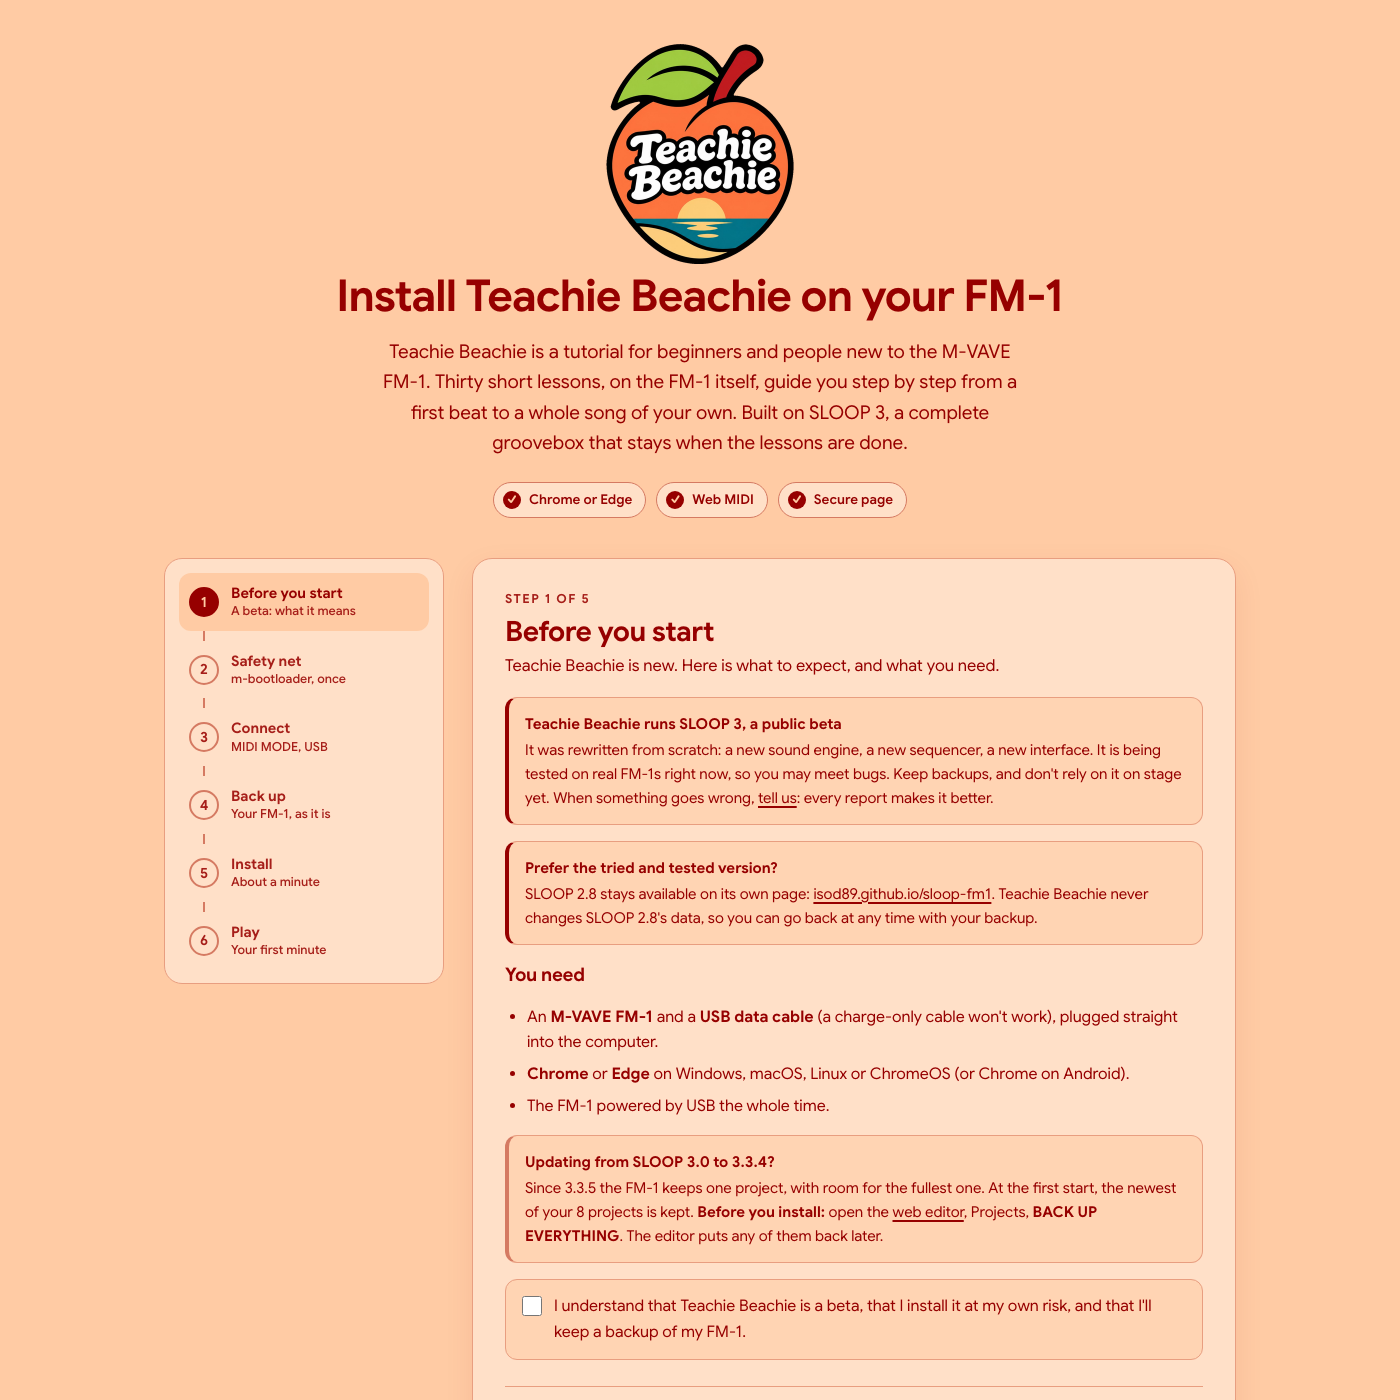
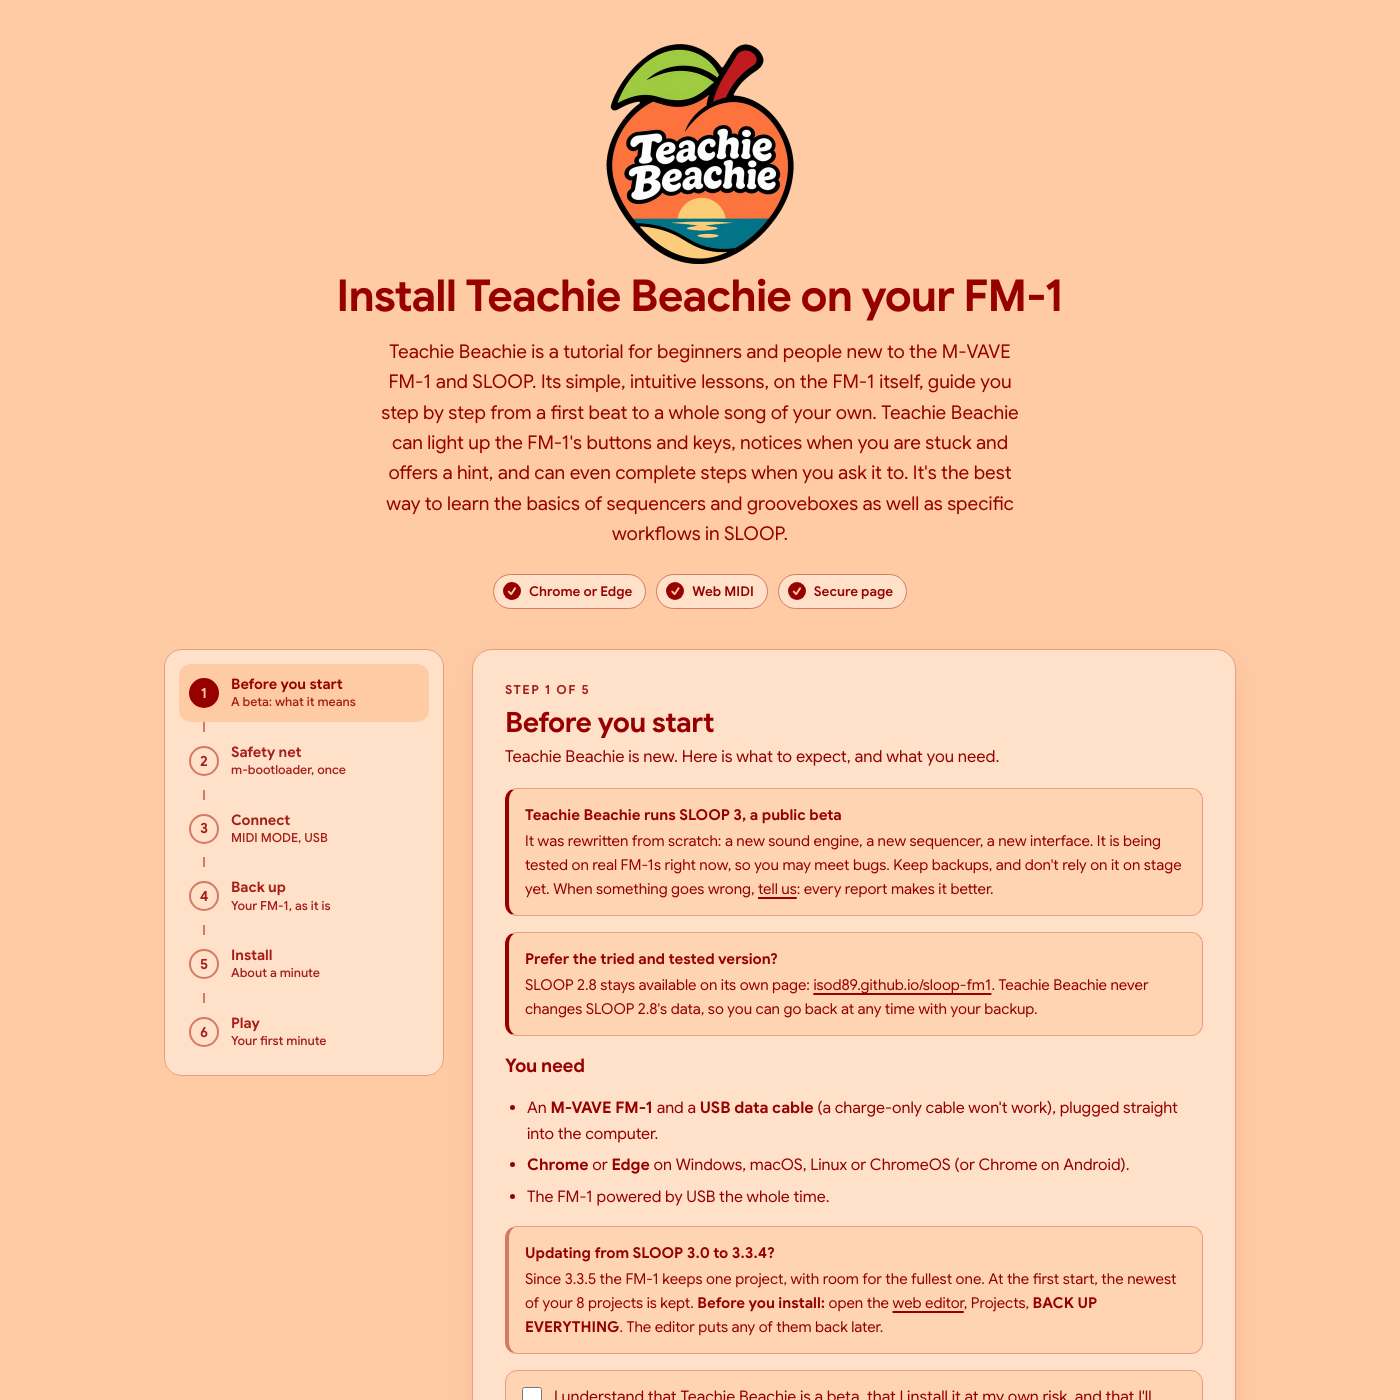
Teachie Beachie: the installer page's own introduction, in English only
- The introduction says what Teachie Beachie is for (beginners, people new to the FM-1 and SLOOP) and
  what it does: it lights up the FM-1's buttons and keys, notices when you are stuck and offers a hint,
  and can complete steps when asked.
- English only: SLOOP's French words are taken out, and the page no longer follows the browser's
  language. tests/installer_e2e.js goes through the English page only.
- tutorial/install-page.png: a new picture of the page.

Changed region(s): [[0.0921, 0.2457, 0.8907, 1.0]]

diff --git a/tests/installer_e2e.js b/tests/installer_e2e.js
@@ -2,7 +2,8 @@
  * SLOOP 3's installer page in Chromium, as a user goes through it, against a fake m-bootloader in MIDI MODE (Web MIDI
  * replaced in the page): the beta's agreement, m-bootloader there, Connect while the FM-1 is not plugged yet (it is
  * found by itself when it appears), the backup (1 MB read, a file downloaded), the install (the package read twice),
- * the end. In English, then in French. Pictures of each step: OUT/installer-*.png.
+ * the end. In English (Teachie Beachie's page has no French; SLOOP's ran it in French too). Pictures of each step:
+ * OUT/installer-*.png.
  *   node tests/installer_e2e.js PAGE.html OUT */
 const { chromium } = require('playwright');
 const fs = require('fs'), path = require('path');
@@ -59,7 +60,7 @@ const FAKE = () => {
 
 (async () => {
   const b = await chromium.launch();
-  for (const lang of ['en', 'fr']) {
+  for (const lang of ['en']) {
     const ctx = await b.newContext({ viewport: { width: 1440, height: 900 }, locale: lang === 'fr' ? 'fr-FR' : 'en-US', acceptDownloads: true });
     const pg = await ctx.newPage();
     const errs = []; pg.on('pageerror', e => errs.push(e.message));
@@ -109,6 +110,6 @@ const FAKE = () => {
     await ctx.close();
   }
   await b.close();
-  console.log(fails ? fails + ' FAILED' : 'installer_e2e: OK (en, fr: agreement, m-bootloader, connect when plugged, backup, install, done)');
+  console.log(fails ? fails + ' FAILED' : 'installer_e2e: OK (en: agreement, m-bootloader, connect when plugged, backup, install, done)');
   process.exit(fails ? 1 : 0);
 })();

diff --git a/tools/teachie_page.py b/tools/teachie_page.py
@@ -3,8 +3,8 @@
 # Teachie Beachie: SLOOP's installer page (tools/mkpage.py's output) under TEACHIE BEACHIE's name, in place. Run by fw/build.sh
 # after mkpage.py, so web/installer.tmpl.html stays exactly SLOOP's and a merge of a new SLOOP never clashes there.
 #   teachie_page.py PAGE.html
-# What it does: Teachie Beachie where the page names the firmware it installs; SLOOP 3 credited in the title, the beta note
-# and the footer (English and French); bug reports to Teachie Beachie's; the version shown as Teachie Beachie's, then
+# What it does: the page in English only (SLOOP's French left out); Teachie Beachie where the page names the firmware it
+# installs; SLOOP 3 credited in the title, the beta note and the footer; bug reports to Teachie Beachie's; the version shown as Teachie Beachie's, then
 # SLOOP's; Teachie Beachie's logo above the title and as the tab's icon (the two pictures are made by
 # tools/mkpagelogo.py); and its own look: the FM-1 cards' two colors (peach paper, dark red ink, app/vis.h) and the
 # lessons' font (assets/fonts/page-font.woff, tools/mkpagefont.py), with no bar or menu at the top and a short
@@ -29,6 +29,12 @@ if held: t = t.replace(pkg, "\0FWPKG\0")
 t, renamed = re.subn(r"SLOOP 3(?!\.\d|\d)", "TEACHIE BEACHIE", t)
 if held: t = t.replace("\0FWPKG\0", pkg)
 
+# 1b. English only: SLOOP's page is in English and French, chosen by the browser's language. Teachie Beachie's is in
+#     English: the French words are taken out (the script falls back to the English for every one) and the page no
+#     longer looks at the browser's language
+t, nfr = re.subn(r"\nfr: \{\n.*?\n\}\};", "\nfr: {}};", t, count=1, flags=re.S)
+t, nlang = re.subn(r"setLang\(saved \|\| \(/\^fr/i\.test\(navigator\.language \|\| ''\) \? 'fr' : 'en'\)\);", "setLang('en');", t)
+
 # 2. the sentences that need SLOOP 3 named, or TEACHIE BEACHIE's own words
 RULES = [
     ('content="Install TEACHIE BEACHIE, the free groovebox firmware for the M-VAVE FM-1,',
@@ -37,55 +43,35 @@ RULES = [
     # that does not break the line, keeps M-VAVE and FM-1 whole on a phone)
     ('TEACHIE BEACHIE turns the M-VAVE FM-1 into a complete groovebox: drums, bass, chords, melodies and effects, with a '
      'sequencer that loops it all. This page installs it for you, step by step, right from your browser.',
-     'Teachie Beachie is a tutorial for beginners and people new to the M&#8209;VAVE FM&#8209;1. Thirty short lessons, on the '
-     'FM-1 itself, guide you step by step from a first beat to a whole song of your own. Built on SLOOP 3, a complete '
-     'groovebox that stays when the lessons are done.'),
-    ("TEACHIE BEACHIE fait du M-VAVE FM-1 une groovebox complète : batterie, basse, accords, mélodies et effets, avec un "
-     "séquenceur qui boucle le tout. Cette page l\\'installe pour toi, étape par étape, depuis ton navigateur.",
-     "Teachie Beachie est un tutoriel pour les débutants et pour qui découvre le M&#8209;VAVE FM&#8209;1. Trente courtes leçons, "
-     "sur le FM-1 lui-même, te guident pas à pas d\\'un premier rythme à un morceau entier bien à toi. Construit sur "
-     "SLOOP 3, une groovebox complète qui reste une fois les leçons finies."),
+     'Teachie Beachie is a tutorial for beginners and people new to the M&#8209;VAVE FM&#8209;1 and SLOOP. Its simple, '
+     'intuitive lessons, on the FM-1 itself, guide you step by step from a first beat to a whole song of your own. '
+     'Teachie Beachie can light up the FM-1\'s buttons and keys, notices when you are stuck and offers a hint, and can '
+     'even complete steps when you ask it to. It\'s the best way to learn the basics of sequencers and grooveboxes as '
+     'well as specific workflows in SLOOP.'),
     ('The FM-1 running TEACHIE BEACHIE (3D render)', 'The M-VAVE FM-1, with SLOOP 3 on its screen (3D render)'),
-    ('Le FM-1 avec TEACHIE BEACHIE (rendu 3D)', "Le M-VAVE FM-1, avec SLOOP 3 à l\\'écran (rendu 3D)"),
     ('The M-VAVE FM-1 running TEACHIE BEACHIE', 'The M-VAVE FM-1'),
-    ('Le M-VAVE FM-1 avec TEACHIE BEACHIE', 'Le M-VAVE FM-1'),
     # after the install: the peach and the start card, not SLOOP's sailboat; and where the lessons come from
     ('The FM-1 restarts on TEACHIE BEACHIE and the sailboat logo draws itself in. Turn <b>MASTER</b> up gently, and have fun.',
      'The FM-1 restarts on Teachie Beachie: the peach logo, then a card that asks "Ready for a lesson?" <kbd>OCT+</kbd> starts '
      'a lesson, <kbd>OCT-</kbd> goes straight to SLOOP 3. Turn <b>MASTER</b> up gently, and have fun. The thirty lessons are a '
      'small pack of their own, which this page does not install yet: <a href="' + HOME + '">the project\'s page</a> says how '
      'to put it on the FM-1.'),
-    ("Le FM-1 redémarre sur TEACHIE BEACHIE et le voilier se dessine. Monte <b>MASTER</b> doucement, et amuse-toi bien.",
-     "Le FM-1 redémarre sur Teachie Beachie : la pêche, puis une carte qui demande « Ready for a lesson? ». <kbd>OCT+</kbd> lance une "
-     "leçon, <kbd>OCT-</kbd> va droit à SLOOP 3. Monte <b>MASTER</b> doucement, et amuse-toi bien. Les trente leçons sont un "
-     "petit paquet à part, que cette page n\\'installe pas encore : <a href=\"" + HOME + "\">la page du projet</a> explique "
-     "comment le mettre sur le FM-1."),
     # the first start: TEACHIE BEACHIE leaves out SLOOP 3's opening of a SLOOP 2.8 project (TP_SLOOP28_PROJECT in fw/main.c)
     ("At its first start, TEACHIE BEACHIE opens what SLOOP 2.8 left: your sections become patterns, and your presets, "
      "favourites, samples, SYN kits, FM6 bank and settings come along. SLOOP 2.8's data is only read, never written.",
      "TEACHIE BEACHIE does not open the project SLOOP 2.8 left (SLOOP 3 does; TEACHIE BEACHIE leaves that out to make room "
      "for its lessons). Your presets, favorites, samples, SYN kits, FM6 bank and settings come along. SLOOP 2.8's data is "
      "only read, never written."),
-    ("Au premier démarrage, TEACHIE BEACHIE ouvre ce que SLOOP 2.8 a laissé : tes sections deviennent des patterns, et tes "
-     "presets, favoris, samples, kits SYN, banque FM6 et réglages suivent. Les données de SLOOP 2.8 sont seulement lues, "
-     "jamais écrites.",
-     "TEACHIE BEACHIE n\\'ouvre pas le projet que SLOOP 2.8 a laissé (SLOOP 3 le fait ; TEACHIE BEACHIE s\\'en passe pour "
-     "faire de la place à ses leçons). Tes presets, favoris, samples, kits SYN, banque FM6 et réglages suivent. Les données "
-     "de SLOOP 2.8 sont seulement lues, jamais écrites."),
     ('data-t="betaT">TEACHIE BEACHIE is a public beta', 'data-t="betaT">TEACHIE BEACHIE runs SLOOP 3, a public beta'),
-    ("betaT: 'TEACHIE BEACHIE est une bêta publique'", "betaT: 'TEACHIE BEACHIE fait tourner SLOOP 3, une bêta publique'"),
     ('<p data-t="foot1"><b>TEACHIE BEACHIE</b> is free software (GPL-3.0) by the SLOOP project: '
      '<a href="https://github.com/isod89/sloop3-fm1">github.com/isod89/sloop3-fm1</a>.',
      '<p data-t="foot1"><b>Teachie Beachie</b> is free software (GPL-3.0), built on <b>SLOOP 3</b> by the '
      'SLOOP project (<a href="https://github.com/isod89/sloop3-fm1">github.com/isod89/sloop3-fm1</a>). '
      'The SLOOP project does not make or support TEACHIE BEACHIE.'),
-    ("foot1: '<b>TEACHIE BEACHIE</b> est un logiciel libre (GPL-3.0) du projet SLOOP : "
-     "<a href=\"https://github.com/isod89/sloop3-fm1\">github.com/isod89/sloop3-fm1</a>.",
-     "foot1: '<b>Teachie Beachie</b> est un logiciel libre (GPL-3.0), construit sur <b>SLOOP 3</b> du "
-     "projet SLOOP (<a href=\"https://github.com/isod89/sloop3-fm1\">github.com/isod89/sloop3-fm1</a>). "
-     "Le projet SLOOP ne fait ni ne prend en charge TEACHIE BEACHIE."),
 ]
 missed = []
+if not nfr: missed.append("SLOOP's French words")
+if not nlang: missed.append("the language chosen from the browser's")
 for old, new in RULES:
     if old in t: t = t.replace(old, new)
     else: missed.append(old[:70])
@@ -94,7 +80,7 @@ for old, new in RULES:
 #    cannot install, left out (it would show the author's account name: "open this page in Chrome or Edge" says enough)
 t = t.replace("https://github.com/isod89/sloop3-fm1/issues/new/choose", HOME + "/issues")
 t, naddr = re.subn(r" ?: <code>https://isod89\.github\.io/sloop3-fm1/</code>", ".", t)
-if naddr != 2: missed.append("the page's own address, when a browser cannot install (%d of 2)" % naddr)
+if naddr != 1: missed.append("the page's own address, when a browser cannot install (%d of 1)" % naddr)
 
 # 4. the version shown: TEACHIE BEACHIE's, then SLOOP's (the badge at the top and the summary before installing)
 shown = "v%s · SLOOP %s" % (TP_VERSION, sloop_ver)
@@ -204,7 +190,7 @@ cased = t.count("TEACHIE BEACHIE"); t = t.replace("TEACHIE BEACHIE", "Teachie Be
 
 open(path, "w", encoding="utf-8").write(t)
 for s in missed: print("teachie_page: not found (SLOOP reworded it?):", s, file=sys.stderr)
-credited = "built on <b>SLOOP 3</b>" in t and "construit sur <b>SLOOP 3</b>" in t
+credited = "built on <b>SLOOP 3</b>" in t
 print("%s: Teachie Beachie %s on SLOOP %s, %d names, %d versions, %d logos, its look %s, %s" % (path, TP_VERSION, sloop_ver, renamed, nver,
       logos, "added" if looks else "MISSING", "SLOOP credited" if credited else "SLOOP NOT CREDITED"))
 if not credited or "<title>Install Teachie Beachie" not in t: sys.exit("teachie_page: the page lacks its name or the credit to SLOOP")

diff --git a/TEACHIE-BEACHIE.md b/TEACHIE-BEACHIE.md
@@ -60,8 +60,9 @@ The unchanged v3.3.7 built this way is byte-for-byte the firmware inside SLOOP's
   - Its own look, added after SLOOP's styles (SLOOP's markup and script untouched): the FM-1 cards' two colors,
     peach paper `#FFCBA4` and dark red ink `#960000` (`app/vis.h`), and the lessons' font, Google Sans, inside the
     page (`assets/fonts/page-font.woff`, made by `tools/mkpagefont.py`; the page still loads nothing from the web).
-    No bar or menu at the top: SLOOP's is hidden, not removed, since its script still uses it; the language follows
-    the browser.
+    No bar or menu at the top: SLOOP's is hidden, not removed, since its script still uses it.
+  - English only: SLOOP's French words are taken out, and the page no longer follows the browser's language.
+    `tests/installer_e2e.js` goes through it in English only.
   - At the top only the logo, the title, a short introduction and the browser's checks. SLOOP's beta badge, its
     three facts and its 3D picture are hidden.
   - No author's name on the page. The GPL needs the license named and the source reachable, not a name; the
